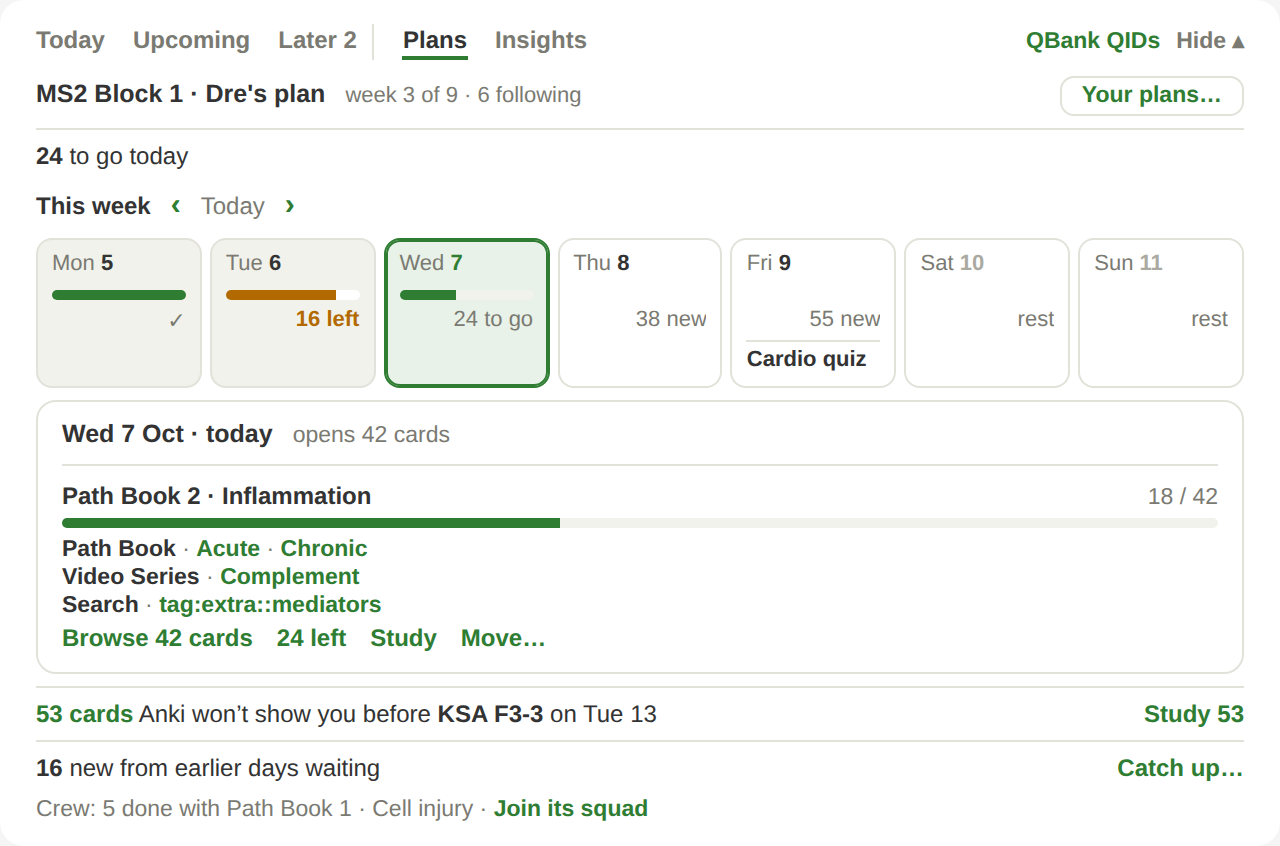
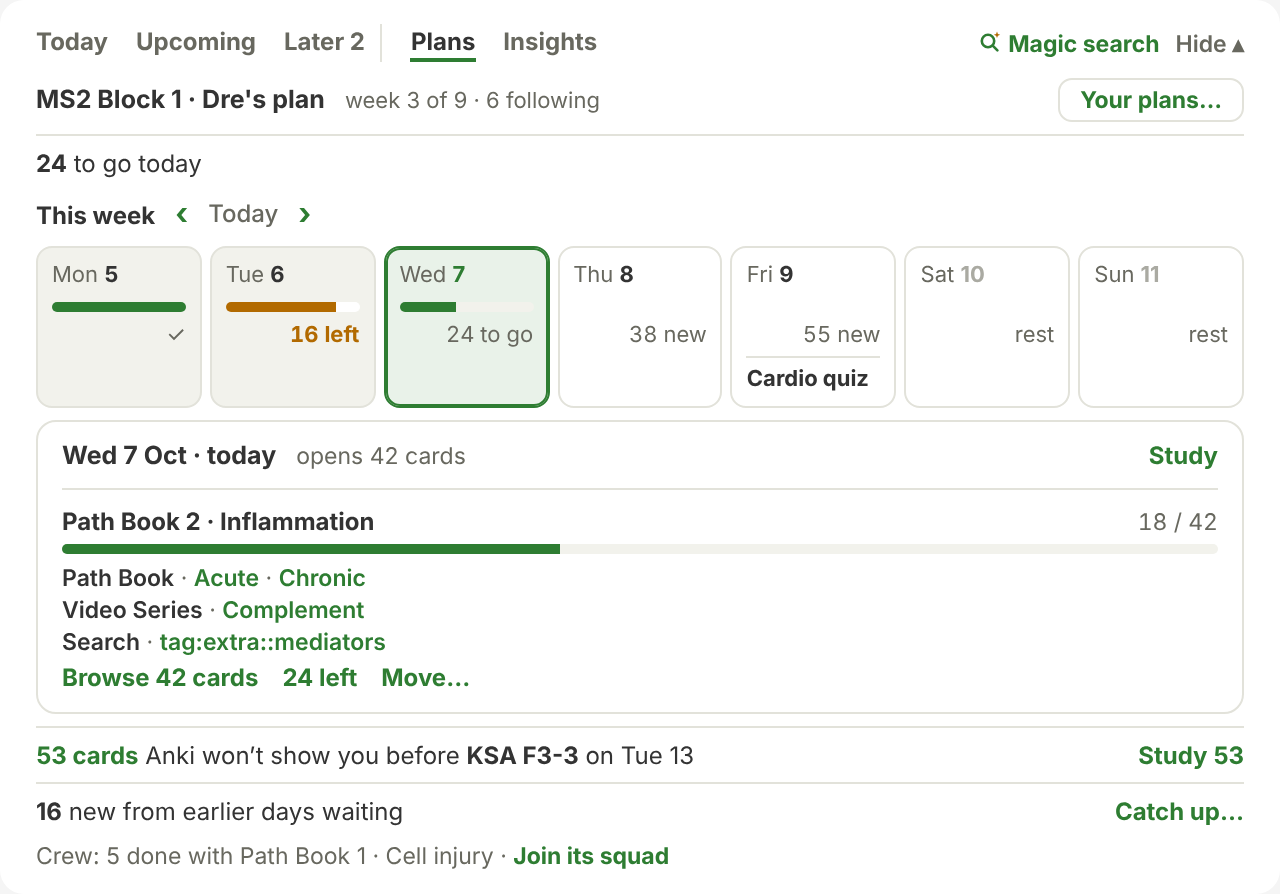
The look: one action leads, no medals, a narrow Crew in words, readable grey, today's ring its own
Five of the six design mocks, as approved. Secondary actions are ink, the
filled button and each box's one action stay the accent. Crew has no
medals or places (the site's twin too). Under 560 px Crew shows the
column it's sorted by with Streak, headers as words. The muted grey goes
from 4.3:1 to 5.6:1 on white. An opened day is filled; the ring is
today's alone. Insights stays whole. README pictures re-rendered.

Claude-Session: https://claude.ai/code/session_01T9RYS9itCJ3KTL7nGa5aCe

diff --git a/site/public/app.js b/site/public/app.js
@@ -931,7 +931,6 @@ function squadWeek(rows, day) {
 // ---- 3.3: the board, as the add-on draws it (due_crew/board.py) ----
 
 const Board = (() => {
-  const MEDALS = ["🥇", "🥈", "🥉"];
   // 3.4 review, T3: headings as words (the medals keep the emoji)
   const HEADS = [["reviews", "Reviews"], ["time", "Time"], ["retention", "Retention"], ["streak", "Streak"]];
   const SQUAD_HEADS = [...HEADS, ["week", "7 days"]];
@@ -1116,7 +1115,6 @@ const Board = (() => {
     const [fresh, dormant] = rows(people, period, sort, today);
     const head = h("tr", {}, picker ? corner(picker) : [h("th"), h("th")], HEADS.map(([k, l]) => h("th", { class: `k-${k}${k === sort ? " on" : ""}` },
       h("button", { class: "linkish", onclick: () => { store("dc-sort", k); onSort(); } }, l + (k === sort ? " ▾" : "")))));
-    let n = 0;
     const tr = (r, rank) => {
       // T5: how many were new, on the Week tab
       const rv = r.reviews === null ? "—" : h("span", {}, r.reviews.toLocaleString(), period === "week" && r.new > 0 && r.reviews > 0 ? h("small", {}, r.new >= r.reviews ? "all new" : `${Math.min(r.new, r.reviews).toLocaleString()} new`) : null);
@@ -1138,12 +1136,11 @@ const Board = (() => {
       fold.push(h("tr", { class: "qfold" }, h("td", { class: "rk" }), h("td", { class: "nm", colspan: HEADS.length + 1 },
         h("button", { class: "linkish", onclick: () => tbl.classList.toggle("qopen") }, `▸ ${longQ.length} quiet`),
         h("span", { class: "ago faded" }, ` · ${who} ${longQ.length === 1 ? "hasn't" : "haven't"} been here since ${since}`))));
-      for (const r of longQ) { const row = tr(r, "—"); row.classList.add("qh"); fold.push(row); }
+      for (const r of longQ) { const row = tr(r, ""); row.classList.add("qh"); fold.push(row); }
     }
-    // board.py: nothing to rank (me alone, the day I joined) takes no medal
-    const blank = (r) => [r.reviews, r.time, r.retention, r.streak].every((v) => v === null);
-    const body = [...fresh.map((r) => { if (r.showup) return tr(r, "✓"); if (blank(r)) return tr(r, "—"); n++; return tr(r, n <= 3 ? MEDALS[n - 1] : `#${n}`); }),
-      ...dormant.filter((r) => !longQ.includes(r)).map((r) => tr(r, "—")), ...fold];
+    // board/crew.py (3.9.9): no medals, no places: the order says it
+    const body = [...fresh.map((r) => tr(r, r.showup ? "✓" : "")),
+      ...dormant.filter((r) => !longQ.includes(r)).map((r) => tr(r, "")), ...fold];
     tbl.append(h("thead", {}, head), h("tbody", {}, body));
     return h("div", { class: "scrollx" }, tbl);
   }

diff --git a/site/public/app.css b/site/public/app.css
@@ -124,6 +124,7 @@ label { display: block; font-size: 13px; color: var(--muted); margin: 10px 0 4px
 .brdt th.sqh { text-align: center; width: 22px; padding: 4px 2px 8px; } .brdt th.sqh.on { color: var(--accent); }
 .brdt td { padding: 6px 8px; white-space: nowrap; vertical-align: middle; border-top: 1px solid transparent; }
 .brdt td.rk { width: 28px; text-align: center; color: var(--muted); }
+.brdt td.rk:empty { width: 0; padding-left: 0; padding-right: 0; }  /* 3.9.9: no places; a show-up tick's alone */
 .brdt td.nm { width: 100%; max-width: 0; overflow: hidden; text-overflow: ellipsis; }
 .brdt td.nm .who { font-size: 15px; }
 .brdt td.n { text-align: right; font-variant-numeric: tabular-nums; }

diff --git a/due_crew/board/style.py b/due_crew/board/style.py
@@ -87,6 +87,7 @@ def _css(cfg):
       text-overflow: ellipsis; }}
     #due-crew td.n {{ text-align: right; font-variant-numeric: tabular-nums; }}
     #due-crew td.rk {{ width: 30px; color: var(--dc-muted); }}
+    #due-crew td.rk:empty {{ width: 0; padding-left: 0; padding-right: 0; }}  /* 3.9.9: no places on the Crew tab; the column is a show-up tick's alone */
     #due-crew th.lt {{ text-align: left; font-weight: 400; }}
     #due-crew th.lt, #due-crew th.sqh {{ color: var(--dc-muted); font-size: 11px; }}
     #due-crew th.sqh {{ text-align: center; padding: 2px 3px 6px; font-weight: 700; }}
@@ -310,6 +311,17 @@ def _css(cfg):
        gets the room. Until 2.9 every name shrank to three letters. */
     @media (max-width: 560px) {{
       #due-crew th .hl {{ display: none; }} #due-crew th .hi {{ display: inline; }}
+      /* 3.9.9 (the design mocks' 3): Crew's numbers keep their words: the column it's sorted by and
+         Streak (sorted by Streak: Reviews beside it), so a name has the room four columns took */
+      #due-crew table[class*="dc-s-"] th .hl {{ display: inline; }} #due-crew table[class*="dc-s-"] th .hi {{ display: none; }}
+      #due-crew table.dc-s-reviews tr > th:nth-child(3), #due-crew table.dc-s-reviews tr > td.n:nth-child(4),
+      #due-crew table.dc-s-streak tr > th:nth-child(3), #due-crew table.dc-s-streak tr > td.n:nth-child(4),
+      #due-crew table.dc-s-retention tr > th:nth-child(3), #due-crew table.dc-s-retention tr > td.n:nth-child(4),
+      #due-crew table.dc-s-reviews tr > th:nth-child(4), #due-crew table.dc-s-reviews tr > td.n:nth-child(5),
+      #due-crew table.dc-s-streak tr > th:nth-child(4), #due-crew table.dc-s-streak tr > td.n:nth-child(5),
+      #due-crew table.dc-s-time tr > th:nth-child(4), #due-crew table.dc-s-time tr > td.n:nth-child(5),
+      #due-crew table.dc-s-time tr > th:nth-child(2), #due-crew table.dc-s-time tr > td.n:nth-child(3),
+      #due-crew table.dc-s-retention tr > th:nth-child(2), #due-crew table.dc-s-retention tr > td.n:nth-child(3) {{ display: none; }}
       #due-crew td, #due-crew th {{ padding-left: 4px; padding-right: 4px; }}
       #due-crew tr:not(.dim) .la {{ display: none; }}
       #due-crew .dc-head .dc-mark {{ height: 14px; }}
@@ -442,6 +454,15 @@ def _css(cfg):
     #due-crew .pwh a {{ color: var(--dc-accent); font-weight: 700; text-decoration: none; }}
     #due-crew .pwh .nav .tb {{ padding: 0 2px; font-size: 12px; font-weight: 700; }}
     #due-crew .pwh .nav .tb.here {{ color: var(--dc-muted); font-weight: 500; }}
+    /* 3.9.9 (the design mocks' 1): one action leads. A box's filled button and the one thing it's for
+       stay the accent; what's beside them is ink at the same weight, underlined when pointed at */
+    #due-crew .dc-foot .fl a:not(.pb):not(.warn), #due-crew .dc-calm a:not(.x),
+    #due-crew .du .du-line .acts a, #due-crew .du .du-sg a:not(.x), #due-crew .du .end a.du-go {{ color: var(--dc-ink); font-weight: 600; }}
+    #due-crew .dc-foot .fl a:not(.pb):not(.warn):hover, #due-crew .dc-calm a:not(.x):hover,
+    #due-crew .du .du-line .acts a:hover, #due-crew .du .du-sg a:not(.x):hover, #due-crew .du .end a.du-go:hover {{ text-decoration: underline; }}
+    /* 3.9.9 (the mocks' 6): today keeps the ring; the day opened is filled, its number underlined */
+    #due-crew .pwk .pc.sel:not(.now) {{ border-color: var(--dc-faded); box-shadow: none; }}
+    #due-crew .pwk .pc.sel:not(.now) .d b {{ text-decoration: underline; text-underline-offset: 3px; }}
     /* 3.9.9: the week across plans, under the plan's card: a row a day, reviews and each plan's new
        cards as one bar, the day's time; a heavy day's line and its one move */
     #due-crew .lw {{ text-align: left; margin-top: 12px; padding-top: 10px; border-top: 1px solid var(--dc-line); font-size: 12px; }}

diff --git a/tests/test_due_crew.py b/tests/test_due_crew.py
@@ -2871,8 +2871,11 @@ def test_not_yet_today_is_unranked():
     check("not yet: dashes, a note with when we last heard, the status, still cheerable; no zeros", "nothing yet as of" in row and "coffee first" in row
           and ">0<" not in row and "0.0%" not in row and "cheerpick:dre" in row)
     kai = page[:page.index(">Kai<")]
-    check("not yet: Kai keeps silver, and Dre's rank is a dash", kai.rfind("&#129352;") > kai.rfind("<tr")
-          and '<td class="rk">&mdash;</td>' in page[page.rfind("<tr", 0, page.index(">Dre<")):page.index(">Dre<")])
+    check("not yet: Kai is above Dre by the order alone; no medals, no places, no dash (3.9.9, Sam: the design mocks' 2)",
+          '<td class="rk"></td>' in kai[kai.rfind("<tr"):]
+          and '<td class="rk"></td>' in page[page.rfind("<tr", 0, page.index(">Dre<")):page.index(">Dre<")]
+          and not any(m in page for m in ("&#129351;", "&#129352;", "&#129353;")) and re.search(r'class="rk">#\d', page) is None
+          and 'td.rk:empty {' in page and '<table class="dc-s-reviews">' in page)
     week = dict(data, entries=[data["entries"][0], ent("dre", "Dre", {lb: dict(zero) for lb in labels[:3]})])
     wf, wd = board.build_rows(week["entries"], labels, week["tomorrow"], "week", {})
     check("not yet: a week of zeros is unranked on Week", [r["name"] for r in wd] == ["Dre"] and wd[0]["notyet"]
@@ -9271,11 +9274,11 @@ def test_site_audit_v380():
     T0 = TODAY.isoformat()
     lone = board.render({"entries": [{"user_id": "me", "name": "Sam", "you": True, "paused": False, "last_updated": "",
                                       "days": {}}], "labels": [T0], "tomorrow": "", "pending": []}, {"period": "week"}, 0)
-    check("site audit: alone with nothing yet, no medal (the add-on)", "&#129351;" not in lone and "&mdash;" in lone)
+    check("site audit: alone with nothing yet, no medal (the add-on)", "&#129351;" not in lone and "&mdash;" in lone and '<td class="rk"></td>' in lone)
     js = open(os.path.join(REPO, "site", "public", "app.js"), encoding="utf-8").read()
     css = open(os.path.join(REPO, "site", "public", "app.css"), encoding="utf-8").read()
     check("site audit: alone with nothing yet, no medal (the site, its twin)",
-          "if (blank(r)) return tr(r, \"—\")" in js)
+          'tr(r, r.showup ? "✓" : "")' in js and "MEDALS" not in js and "`#${n}`" not in js.split("function table(")[1].split("function ")[0])
     check("site audit: columns hide by name, so a squad's two-column line can't shift them",
           ".brdt .k-time, .brdt .k-retention { display: none; }" in css and "nth-child(4)" not in css
           and 'class: "n k-time"' in js and "k-${k}" in js)
@@ -9552,7 +9555,7 @@ def test_head_row_b_v380():
     today = board.render(data, {"period": "today"}, 0)
     check("head row B: Crew's views in the header's corner, not a line above the table",
           corner + ('<a class="on" href="#" onclick="pycmd(\'duecrew:period:today|' + KK + '\'); return false;">Today</a>') in today
-          and today.index(corner) > today.index("<table>") and "<th></th><th></th>" not in today
+          and today.index(corner) > today.index("<table class=\"dc-s-") and "<th></th><th></th>" not in today
           and today.count('<div class="dc-sw">') == 1)
     week = board.render(data, {"period": "week"}, 0)
     check("head row B: Week too, Week picked", corner in week

diff --git a/due_crew/board/crew.py b/due_crew/board/crew.py
@@ -8,7 +8,7 @@ from datetime import datetime
 from ..logo import board_mark
 from .. import sev as _sev
 
-from .base import (CREW_VIEWS, HEADERS, MEDALS, ROW_CAP, _NW_ROOM, _ago, _cell, _even_rows, _fmt_time, _label,
+from .base import (CREW_VIEWS, HEADERS, ROW_CAP, _NW_ROOM, _ago, _cell, _even_rows, _fmt_time, _label,
     _long_quiet, _pycmd, _quiet_fold, _reviews_cell, _showed, build_deck_groups, build_rows, plan_target, sort_key,
     week_labels)
 from .pip import row_sev
@@ -227,30 +227,27 @@ def _table_html(data, cfg, period, pick=""):
                                     data.get("tomorrow", ""), "today", cfg)
         return _presence_html(fresh, dormant, data["labels"], data["entries"], pick, cfg) + _solo_html(data)
     body = ""
-    n = 0  # show-up rows are counted, not ranked
     for row in fresh:
         if row.get("showup"):
             rank = "&#10003;"
-        elif all(row.get(k) is None for k in ("reviews", "time_ms", "retention", "streak")):
-            rank = "&mdash;"  # 3.8.0: nothing to rank (me alone, the day I joined), no medal
         else:
-            n += 1
-            rank = MEDALS[n - 1] if n <= 3 else f"#{n}"
+            rank = ""  # 3.9.9 (Sam, the design mocks' 2): no medals, no places: the order says it, and this isn't a race
         body += _row_html(row, rank, cfg, period, held=row["user_id"] in held)
     # Q3: friends quiet for 90+ days fold into one line under everyone
     long_q = [r for r in dormant if r["quiet"] and not r["you"] and _long_quiet(r["last_updated"])]
     for row in dormant:
         if row not in long_q:
-            body += _row_html(row, "&mdash;", cfg, period, held=row["user_id"] in held)
+            body += _row_html(row, "", cfg, period, held=row["user_id"] in held)
     if long_q:
         body += _quiet_fold(long_q)
         for row in long_q:
-            body += _row_html(row, "&mdash;", cfg, period, held=row["user_id"] in held).replace('<tr class="', '<tr class="qh ', 1)
+            body += _row_html(row, "", cfg, period, held=row["user_id"] in held).replace('<tr class="', '<tr class="qh ', 1)
     body = _even_rows(body)
     solo = _solo_html(data)
     # the name column ellipsizes, so the table can never outgrow the card;
     # past the row cap it scrolls inside it
-    return _scroll(f'<table><tr>{heads}</tr>{body}</table>', body.count('<tr class=')) + solo
+    # 3.9.9: what it's sorted by, for a narrow window's two columns (style.py)
+    return _scroll(f'<table class="dc-s-{sort}"><tr>{heads}</tr>{body}</table>', body.count('<tr class=')) + solo
 
 
 def _scroll(html, rows):

diff --git a/tools/readme_images.py b/tools/readme_images.py
@@ -41,7 +41,8 @@ for e in CREW:
     e.setdefault("last_updated", ago(minutes=4))
 DATA = {"entries": CREW, "labels": L, "tomorrow": P["TOMORROW"], "pending": []}
 
-ME = {"period": "today", "accent": "green", "sev_look": ["headphones"], "sev_closet": {"headphones": L[-1]}}
+ME = {"period": "today", "accent": "green", "sev_look": ["headphones"], "sev_closet": {"headphones": L[-1]},
+      "use_told": True}  # (the once-only line about counts isn't the listing's picture)
 html = board.render(DATA, ME, P["now_ts"] - 30,
                     due=dict(P["_DV"], folded=True), plans=P["PLANS"], you=P["_YOU"]("today", folded=True))
 page = f"""<!doctype html><html><head><meta charset="utf-8"><title>README board</title>

diff --git a/due_crew/board/base.py b/due_crew/board/base.py
@@ -15,7 +15,7 @@ from ..stats.decks import sig_match
 
 
 LIGHT = {
-    "bg": "#ffffff", "ink": "#333333", "muted": "#7a7a72", "line": "#e2e2da",
+    "bg": "#ffffff", "ink": "#333333", "muted": "#68685f", "line": "#e2e2da",
     "hours": "#b26a00", "faded": "#aaaaa2", "well": "#f2f2ec",
 }
 DARK = {
@@ -87,7 +87,6 @@ def _head_label(icon, text):
 HEADERS = (("reviews", _head_label("&#128218;", "Reviews")), ("time", _head_label("&#9201;", "Time")),
            ("retention", _head_label("&#127919;", "Retention")),
            ("streak", _head_label("&#128293;", "Streak")))
-MEDALS = ("&#129351;", "&#129352;", "&#129353;")
 
 
 def _token_block(palette):

diff --git a/due_crew/ui/__init__.py b/due_crew/ui/__init__.py
@@ -168,9 +168,9 @@ def tone(key):
     try:
         return tokens()[key]
     except Exception:
-        return {"muted": "#7a7a72", "faded": "#aaaaa2", "line": "#e2e2da", "well": "#f2f2ec", "bg": "#ffffff",
+        return {"muted": "#68685f", "faded": "#aaaaa2", "line": "#e2e2da", "well": "#f2f2ec", "bg": "#ffffff",
                 "ink": "#333333", "ink-2": "#5e5e58", "mark": "#242424", "accent": "#2e7d32",
-                "you-bg": "#e9f2e9", "hours": "#b26a00", "warm": "#f8efe2"}.get(key, "#7a7a72")
+                "you-bg": "#e9f2e9", "hours": "#b26a00", "warm": "#f8efe2"}.get(key, "#68685f")
 
 
 def title(text):

diff --git a/docs/manual-anki-checklist.md b/docs/manual-anki-checklist.md
@@ -526,7 +526,7 @@ In Anki (as a follower):
 ### Not yet today, and the site's board (3.6.7)
 
 - [ ] A crewmate syncs before studying: in Anki and on duecrew.com/home
-      their row has dashes, no rank or medal, "· nothing yet as of …", and sits
+      their row has dashes (nobody has a rank or medal since 3.9.9), "· nothing yet as of …", and sits
       under everyone who studied; their status still shows; 🎉 works.
 - [ ] Week tab: someone with only zero days this week reads "nothing this
       week". A squad board: a 0-review row today sits under the ranked
@@ -605,6 +605,7 @@ In Anki (as a follower):
 - [ ] Plans (round five, Sam's pick A): the plan's name and Your plans…, its day in a line with Catch up…, then This week ‹ Today › and seven small days, each its bar (amber when behind) and what's left ("16 left", "24 to go", "38 new", ✓, rest), a quiz's name under its day; on a narrow window the days show their numbers alone and a quiz day is underlined. Due's lists on or off, the week is there. No Month ↗, no Done.
 - [ ] Pick 3: follow two plans: the head is their names (one pressed), the shown plan's line and one Your plans… (on it); an amber dot on a plan that's behind. Click the other name: its card, week and lines; restart Anki: still that one. Browse › Show on my plan on the other plan's card: that plan, its day open. Two plans of one name show their whole titles. One plan: no switch.
 - [ ] Pick A: click a day: its assignments open under the week (unfolding), whole: each date's name and bar, its topics by resource (each opens Browse), the authors' notes and lines (a Watch line with a link opens the browser), Browse N cards, N left, Open now, Study, Move…, Skip it, Put it back after a move, Undo skip, "N leeches stay suspended"; a quiz day names the quiz (Study for it is the quiz row under the week). Click the same day: they fold away. Click another: the ring slides to it and the box grows or shrinks to the new day. With Reduce motion, nothing moves. Browse › Show on my plan opens the card's day there; ‹ › to another week shuts it.
+- [ ] 3.9.9, the look (the design mocks' 1, 2, 3, 4, 6): Crew has no medals and no #4, #5; the order is the same and your row is still tinted. In the board's foot only I'm studying is green; Open a room, Crew, Share are dark and underline when pointed at; on Today, Catch up…, Not today and See them the same, Magic search and Add still green. Small grey text (captions, counts) is a shade darker in the light theme, in the board and in Due Crew's windows. Drag Anki's window narrow: Crew's headers stay words and it shows the column it's sorted by with Streak; sort by Time and Time shows. You › Plans: click a day that isn't today: it's filled with its number underlined, and today alone has the green ring.
 - [ ] 3.9.9, the keyboard: on You › Plans press Tab till a day of the week has a ring; Enter opens its sets under the week, Space shuts them; Tab to the path (one stop), Right and Left walk its sets, Enter opens that set's day. On You › Pip Party, Tab reaches a pick's chip and Enter leaves it out. Open Anki, wait half a minute on the Decks screen, then You › Insights: it's there at once, no "Reading your reviews…".
 - [ ] 3.9.9, the week across plans: follow two plans on this computer with sets in the next seven days: under the plan's card, Everything this week: a row a day, grey reviews and each plan's colour, the day's time. A day half again over your usual is amber with a line and Move <set> to <day>: press it: the set is on that day in its plan's week ("· moved"), the line says where it went with Put it back; Put it back returns it. One plan, or nothing ahead: no such part. You › Insights on a big collection: "Reading your reviews…" for a moment, Anki answering clicks meanwhile, then the view.
 - [ ] Round five: Today and Upcoming: click a plan date's name: its details open under it (Browse N cards, N left, Open now ahead of its day, Move…, Skip it, Put it back after a move, "N leeches stay suspended"); click again, they shut. Each one does what the old week's did, and the board redraws with it.

diff --git a/docs/history.md b/docs/history.md
@@ -4788,6 +4788,31 @@ every release that changes how something works.
   is held for the card only while Settings has my exam (with none, it
   plays as a cheer), and a crewmate's later cheer to me takes the place of
   their line on the server (one cheer a pair) if I haven't fetched it yet.
+- 3.9.9, the look, five of six mocked (Sam, 10 Nov, on the design mocks:
+  "approved for 1, 2, 3, 4"; 5 "we keep both the bento and the ahead"; 6
+  yes). Found by looking at six real screens, light, dark and narrow.
+  1, one action leads: every action was bold accent, so nothing led. The
+  foot's Open a room, Crew, Share, the once-only line's Privacy and Got it,
+  and Today's Catch up…, Not today, See them are ink at 600, underlined
+  when pointed at; the filled button, Magic search, Add and links that are
+  content stay the accent (`style.py`, one block).
+  2, no medals, no places on Crew: the order says it and this isn't a race.
+  `crew._table_html` hands every row an empty rank (a show-up tick is all
+  the column holds; `td.rk:empty` takes no room), `MEDALS` gone; the site's
+  twin the same (`table` in app.js, app.css). Squads keep their plain
+  places: not in the mock, not asked.
+  3, a narrow window keeps its words: under 560 px Crew's headers were four
+  emoji and names were cut for four number columns. The table says what
+  it's sorted by (`dc-s-<key>`) and shows that column with Streak (by
+  Streak: Reviews beside it), headers as words. Other tables as they were.
+  4, small grey you can read: `muted` #7a7a72 was 4.3 to 1 on white and
+  4.0 on Anki's canvas; #68685f is 5.6 and 5.2. Light theme, the board
+  (`base.py`) and the Qt windows' `ui.tone`.
+  5, not built: Insights stays whole, the map and Reviews ahead open.
+  6, today and the day opened: both wore the accent ring; the opened day is
+  now filled with its number underlined, the ring is today's alone.
+  The README's two pictures re-rendered (`tools/readme_images.py`, which
+  now says the once-only counts line was seen: it isn't the listing's).
 - 3.9.9, three from "is there anything else" (Sam, 10 Nov: "Go for
   keyboard insights warmup and extra budget lines").
   The keyboard: the week's seven days were clickable boxes, so Tab skipped
